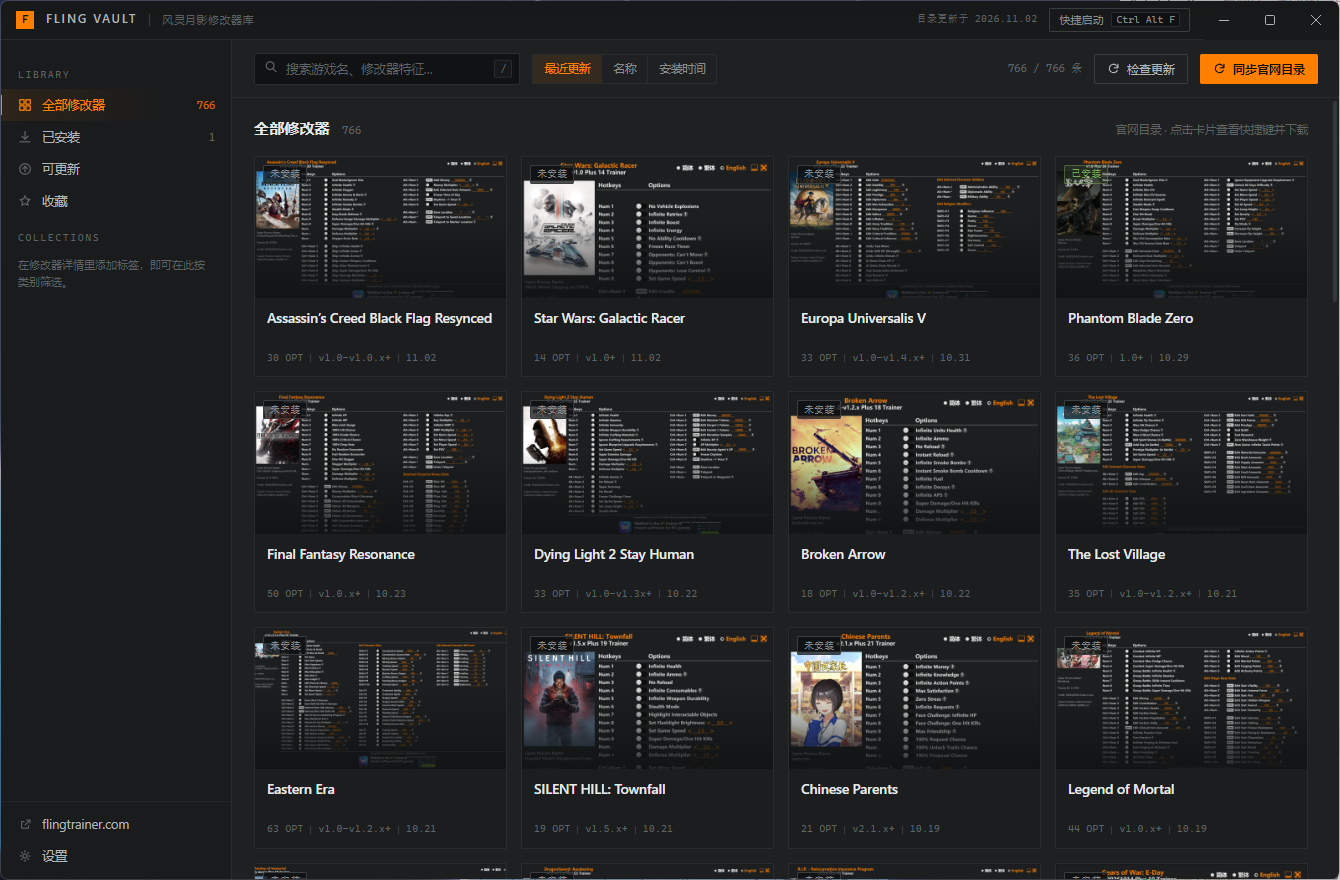
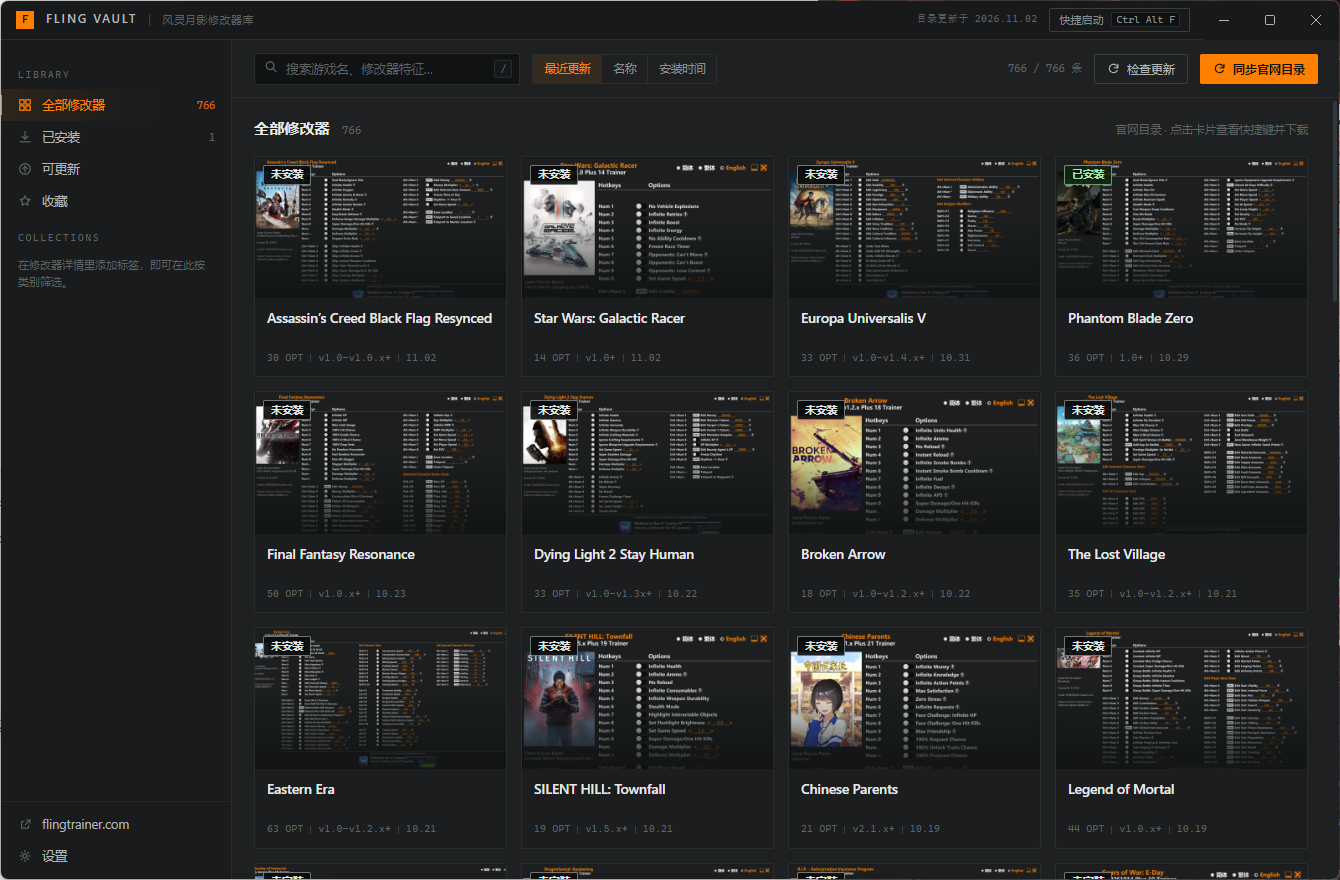
docs: 记录 1.0.1 四项修复的根因与验证数据

diff --git a/docs/self-test-report.md b/docs/self-test-report.md
@@ -68,3 +68,49 @@ $ npm run smoke -- "Phantom Blade Zero"
 ## 5. 回归建议
 
 每次改动 `electron/services/site.ts` 后必须重跑 `npm run smoke -- "Phantom Blade Zero"`，重点看 `options` 是否仍为 36、`size` 是否非 0。
+
+---
+
+## 6. 1.0.1 修复批次（4 项）
+
+### 6.1 点击启动后修改器不出现
+
+**根因**：旧实现把 `Start-Process -Verb RunAs` 拼成字符串交给 `-Command`，并且只在**外壳进程 spawn 成功**时就返回成功——UAC 被拒、命令解析失败、修改器秒退都被吞掉，界面仍提示「已启动」。
+
+**修复**：
+- 改用 `-EncodedCommand`（UTF-16LE Base64）传脚本，规避路径空格与中文引号的解析问题；
+- `-PassThru` 拿到真实 PID（UAC 通过后才返回）；
+- 启动后**观察 6 秒**并采集 `MainWindowTitle`，秒退时回传退出码；
+- 失败按 HResult（`0x800704C7` / NativeErrorCode `1223`）判定「用户取消」，不再依赖本地化文案；
+- 渲染层按 `LaunchResult` 区分「已启动 / 已取消 / 启动失败」三种提示。
+
+**验证**：日志 `[launch] powershell-result {"code":0,"stdout":"RUNNING:26300:《影之刃零》 v1.0 三十六项修改器"}`，用户确认窗口正常弹出。
+
+### 6.2 已安装 / 未安装标签对比度不足
+
+**根因**：徽标底色 `rgba(12,14,15,0.72)` 让封面截图透出，配 9.5px `#8B8E8F` 文字；在亮色封面上实测对比度仅 **3.05:1**（低于 WCAG AA 4.5:1）。
+
+**修复**：底色提到 0.9–0.92 不透明度、字号 10.5px/600、文字改为高亮色（`#E2E5E6` / `#A6E7AE` / `#FFC178`），并加 0.55 透明度描边与 1px 文字阴影。
+
+**验证**：暗封面 15.4:1、亮封面 12.4:1（未安装）；已安装 11.5:1 / 9.2:1，均超过 AAA。
+
+### 6.3 卸载后残留文件夹
+
+**根因**：卸载程序运行时自身就在 `$INSTDIR` 中，`RMDir /r` 删不掉「自己所在的目录」，只留下一个空文件夹。
+
+**修复**：`customUnInstall` 改为：先 `taskkill` 结束实例 → 删除 `%APPDATA%` / `%LOCALAPPDATA%` 数据 → 写一个自删除批处理到 `%TEMP%` 并分离执行，等卸载程序退出后 `rmdir` 安装目录（12 次重试）。
+关键一行是批处理里的 `cd /d "%TEMP%"`：**命令行的当前目录若指向被删目录，`rmdir` 必定失败**（已单独复现验证）。
+
+**验证**（静默安装 → 静默卸载）：
+```
+✔ 安装目录已彻底删除   ✔ 数据目录已删除
+✔ 开始菜单已清理       ✔ 桌面快捷方式已清理   ✔ Programs 下无残留
+```
+
+### 6.4 托盘图标显示异常
+
+**根因**：`iconPath()` 在打包后查找 `resources/build/icon.png`，但 `electron-builder.yml` 没有 `extraResources`，文件根本不在包里 → `nativeImage.createEmpty()` → Windows 收到空图标。
+
+**修复**：新增 `extraResources` 释放 `tray.png` / `tray-16.png`；图标改为透明底橙色 F，并用 `addRepresentation` 同时提供 1x(16px) / 2x(32px)，避免缩放发虚；另内置 Base64 兜底图标。
+
+**验证**：日志 `[tray] 图标已加载 {"size":{"width":16,"height":16}}`；托盘溢出面板中显示为透明底橙色 F，无白块/空位。

diff --git a/docs/acceptance-checklist.md b/docs/acceptance-checklist.md
@@ -12,7 +12,7 @@
 | A3 | 打开详情 | 点击《影之刃零》卡片 | 右侧抽屉显示标题、版本、文件大小、36 条快捷键 | 通过 |
 | A4 | 下载安装 | 点击「下载并安装」 | 进度条推进 → 状态变「已安装」→ 卡片角标变绿 | 通过（1.78 MB，约 3s） |
 | A5 | 文件落盘 | 打开所在文件夹 | `library\phantom-blade-zero-trainer\*.exe` 存在 | 通过（文件名保留官网原名） |
-| A6 | 启动 | 点击「启动修改器」 | UAC 弹窗 → 修改器以管理员运行 | 部分通过：非提权实测被系统拒绝（WinError 740），已识别并自动回退到 `Start-Process -Verb RunAs`；UAC 通过后的修改器窗口行为需人工确认 |
+| A6 | 启动 | 点击「启动修改器」 | UAC 弹窗 → 修改器窗口出现 | 通过（1.0.1）：提权后 6 秒内采集到窗口标题《影之刃零》 v1.0 三十六项修改器；UAC 取消、秒退均有明确提示 |
 | A7 | 更新检测 | 点击「检查更新」 | 1 个请求核对全部已安装项，无误报 | 通过（checked 1 / updates 0） |
 | A8 | 删除 | 抽屉内点删除两次 | 文件与目录被移除，记录消失 | 通过（打包版实测：确认态显示「确认」→ 库计数归 0 → 磁盘目录清空；随后重新下载恢复，1,781,760 B） |
 | A9 | 快捷面板 | `Ctrl+Alt+F` | 面板从屏幕中央弹出，输入回车启动 | 通过 |
@@ -37,7 +37,7 @@
 | # | 检查项 | 预期 | 结果 |
 |---|---|---|---|
 | C1 | 视觉一致性 | 底色 `#1E2021`、强调色 `#FF8000`、2px 圆角、1px 描边，与修改器本体一致 | 通过 |
-| C2 | 卡片一致性 | 封面 16:9、标题两行截断、元信息等宽字体，行高统一 | 通过（曾因 `contain-intrinsic-size` 导致高度溢出，已修复） |
+| C2 | 卡片一致性 | 封面 16:9、标题两行截断、元信息等宽字体，行高统一；状态徽标在任意封面下可辨 | 通过（1.0.1 徽标对比度 9.2–15.4:1） |
 | C3 | 图片加载 | 骨架 shimmer + 加载完成淡入，无空白卡片 | 通过（改用 300w 缩略图） |
 | C4 | 键盘操作 | `/` 聚焦搜索、`Esc` 关闭抽屉/弹窗、`↑↓ Enter` 操作面板 | 通过 |
 | C5 | 窗口控件 | 标题栏右侧「快捷启动」不被原生按钮遮挡 | 通过（右侧留 150px） |
@@ -50,6 +50,8 @@
 |---|---|---|---|
 | D1 | NSIS 安装包 | `release/FLiNG Vault-1.0.0-x64.exe` 可安装、可自选目录、建桌面快捷方式 | 通过（产物已生成） |
 | D2 | 便携版 | `release/FLiNG Vault-1.0.0-portable.exe` 双击即用 | 通过 |
+| D5 | 卸载清理 | 卸载后无目录/快捷方式残留 | 通过（1.0.1 静默安装+卸载实测：安装目录、数据目录、开始菜单、桌面全部清空） |
+| D6 | 托盘图标 | 安装版托盘显示橙色 F，无空白/白块 | 通过（1.0.1，`nativeImage` 1x/2x 双表示） |
 | D3 | 打包后启动 | 安装版能正常出窗口并加载界面 | 通过（曾因 `file://` + ES module 失败，改用 `app://` 协议后修复） |
 | D4 | 类型与构建 | `npm run typecheck`、`npm run build` 无报错 | 通过 |
 

diff --git a/README.md b/README.md
@@ -95,6 +95,8 @@ npm run dist
 ## 已知限制
 
 - **仅 Windows**：修改器本身是 Windows PE，提权与托盘逻辑也按 Windows 实现。
+- **卸载会删除本地库**：安装版卸载时会一并清理 `%APPDATA%\FLiNG Vault`（设置、库记录、已下载的修改器与日志），确保不留残留；如需保留，卸载前先把下载目录里的 exe 复制出去。
+- **启动需要 UAC**：修改器清单要求管理员，启动时必然弹窗；若在弹窗上点「否」，客户端会提示「已取消管理员授权」，不会再谎报成功。
 - **依赖官网结构**：目录走 WordPress REST，下载令牌需解析详情页 HTML。站点改版会导致失败，适配逻辑集中在 `electron/services/site.ts`。
 - **必须联网首次同步**：之后可离线浏览已缓存目录、启动已安装修改器。
 - **UAC 无法绕过**：修改器清单要求管理员，启动时必然弹窗（这是 exe 自身属性，不是客户端行为）。
